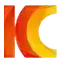
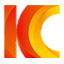
chore: checkpoint before ads migration phase one

Changed region(s): [[0.0625, 0.0625, 0.9375, 0.9062], [0.6562, 0.2188, 0.6875, 0.25]]

diff --git a/app/products/page.tsx b/app/products/page.tsx
@@ -85,7 +85,7 @@ export default function ProductsPage() {
           </div>
 
           <div className="mt-14 grid gap-5 lg:grid-cols-3">
-            <article className="overflow-hidden rounded-2xl border border-slate-200 bg-white shadow-sm"><div className="relative aspect-[4/3] bg-slate-100"><Image src="/images/kc/products/first-generation-mainboard-left-90.webp" alt="First-generation KC induction heating treatment machine mainboard" fill className="object-contain" sizes="(min-width:1024px) 33vw,100vw" /></div><div className="p-7"><div className="font-mono text-xs tracking-[.16em] text-slate-400">GENERATION 01</div><h3 className="mt-3 text-2xl font-semibold">The first mainboard</h3><p className="mt-3 text-sm leading-6 text-slate-600">The starting point of our independently developed induction-heating control platform: practical, application-led electronics built from the fundamentals.</p></div></article>
+            <article className="overflow-hidden rounded-2xl border border-slate-200 bg-white shadow-sm"><div className="relative aspect-[4/3] bg-slate-100"><Image src="/images/kc/products/first-generation-mainboard-corrected.webp" alt="First-generation KC induction heating treatment machine mainboard" fill className="object-contain" sizes="(min-width:1024px) 33vw,100vw" /></div><div className="p-7"><div className="font-mono text-xs tracking-[.16em] text-slate-400">GENERATION 01</div><h3 className="mt-3 text-2xl font-semibold">The first mainboard</h3><p className="mt-3 text-sm leading-6 text-slate-600">The starting point of our independently developed induction-heating control platform: practical, application-led electronics built from the fundamentals.</p></div></article>
 
             <article className="overflow-hidden rounded-2xl border border-orange-200 bg-white shadow-sm"><div className="relative aspect-[4/3]"><Image src="/images/kc/products/fourth-generation-dsp-mainboard.webp" alt="Fourth-generation KC DSP induction heating treatment machine mainboard" fill className="object-cover" sizes="(min-width:1024px) 33vw,100vw" /></div><div className="p-7"><div className="font-mono text-xs tracking-[.16em] text-orange-600">GENERATION 04 · DSP</div><h3 className="mt-3 text-2xl font-semibold">Digital control matures</h3><p className="mt-3 text-sm leading-6 text-slate-600">DSP processing brought faster calculation, more precise power and frequency control, wider load matching and more capable protection logic.</p></div></article>
 

diff --git a/components/layout/nav.tsx b/components/layout/nav.tsx
@@ -30,9 +30,9 @@ export function Nav({ className, children, id }: NavProps) {
             src={siteConfig.brand.logoPath}
             alt={`${siteConfig.site_name} Logo`}
             loading="eager"
-            width={118}
-            height={44}
-            className="h-10 w-auto brightness-0 invert"
+            width={190}
+            height={60}
+            className="h-11 w-auto sm:h-12"
           />
           <span className="sr-only">{siteConfig.site_name}</span>
         </Link>

diff --git a/components/layout/footer.tsx b/components/layout/footer.tsx
@@ -15,9 +15,9 @@ export function Footer() {
               <Image
                 src={siteConfig.brand.logoPath}
                 alt="Logo"
-                width={132}
-                height={48}
-                className="brightness-0 invert"
+                width={210}
+                height={68}
+                className="h-14 w-auto"
               />
             </Link>
             <div className="space-y-3">

diff --git a/site.config.ts b/site.config.ts
@@ -28,8 +28,8 @@ export const siteConfig: SiteConfig = {
   site_domain: "https://www.kc-induction.com",
   brand: {
     legalName: "Zhengzhou Kechuang Electronics Co., Ltd.",
-    logoPath: "/images/kc/logo.webp",
-    logoUrl: "/images/kc/logo.webp",
+    logoPath: "/images/kc/logo-color-dark.webp",
+    logoUrl: "/images/kc/logo-color-dark.webp",
     socialLinks: [],
   },
   contact: {

diff --git a/scripts/prepare-brand-logo.py b/scripts/prepare-brand-logo.py
@@ -1,0 +1,55 @@
+from pathlib import Path
+import sys
+from PIL import Image
+
+ROOT = Path(__file__).resolve().parents[1]
+SOURCE = Path(sys.argv[1]) if len(sys.argv) > 1 else Path(r"D:\down23\kclogo2.jpg")
+OUTPUT = ROOT / "public" / "images" / "kc" / "logo-color-dark.webp"
+
+with Image.open(SOURCE) as original:
+    rgb = original.convert("RGB")
+    pixels = []
+    for red, green, blue in rgb.getdata():
+        minimum = min(red, green, blue)
+        maximum = max(red, green, blue)
+
+        # Remove the white JPEG background while retaining smooth anti-aliased edges.
+        distance_from_white = 255 - minimum
+        alpha = 0 if distance_from_white < 40 else max(0, min(255, (distance_from_white - 30) * 15))
+
+        # The navigation and footer are dark, so change only neutral dark lettering to white.
+        if maximum < 175 and maximum - minimum < 34:
+            pixels.append((255, 255, 255, alpha))
+        else:
+            pixels.append((red, green, blue, alpha))
+
+    logo = Image.new("RGBA", rgb.size)
+    logo.putdata(pixels)
+    bounds = logo.getchannel("A").getbbox()
+    if bounds:
+        logo = logo.crop(bounds)
+
+    target_height = 96
+    target_width = round(logo.width * target_height / logo.height)
+    logo = logo.resize((target_width, target_height), Image.Resampling.LANCZOS)
+    logo.save(OUTPUT, "WEBP", quality=92, method=6)
+
+    # Use the colored KC mark from the same artwork for browser and device icons.
+    mark_source = original.convert("RGBA").crop((8, 35, 100, 122))
+    mark_pixels = []
+    for red, green, blue, _ in mark_source.getdata():
+        minimum = min(red, green, blue)
+        distance_from_white = 255 - minimum
+        alpha = 0 if distance_from_white < 40 else max(0, min(255, (distance_from_white - 30) * 15))
+        mark_pixels.append((red, green, blue, alpha))
+    mark_source.putdata(mark_pixels)
+    mark_bounds = mark_source.getchannel("A").getbbox()
+    if mark_bounds:
+        mark_source = mark_source.crop(mark_bounds)
+    mark_source.thumbnail((56, 56), Image.Resampling.LANCZOS)
+    icon = Image.new("RGBA", (64, 64), (0, 0, 0, 0))
+    icon.alpha_composite(mark_source, ((64 - mark_source.width) // 2, (64 - mark_source.height) // 2))
+    icon.save(ROOT / "app" / "icon.png", "PNG", optimize=True)
+    icon.save(ROOT / "app" / "favicon.ico", "ICO", sizes=[(16, 16), (32, 32), (48, 48), (64, 64)])
+
+    print(f"logo: {logo.width}x{logo.height}; icons: 64x64")

diff --git a/scripts/rotate-first-generation-mainboard.py b/scripts/rotate-first-generation-mainboard.py
@@ -3,9 +3,10 @@ from PIL import Image
 
 ROOT = Path(__file__).resolve().parents[1]
 source = ROOT / "public" / "images" / "kc" / "products" / "first-generation-mainboard.webp"
-output = ROOT / "public" / "images" / "kc" / "products" / "first-generation-mainboard-left-90.webp"
+output = ROOT / "public" / "images" / "kc" / "products" / "first-generation-mainboard-corrected.webp"
 
 with Image.open(source) as image:
-    rotated = image.transpose(Image.Transpose.ROTATE_90)
+    # The previous left-90 version was upside down; turn that result another 180°.
+    rotated = image.transpose(Image.Transpose.ROTATE_270)
     rotated.save(output, "WEBP", quality=88, method=6)
     print(f"{output.name}: {rotated.width}x{rotated.height}")
